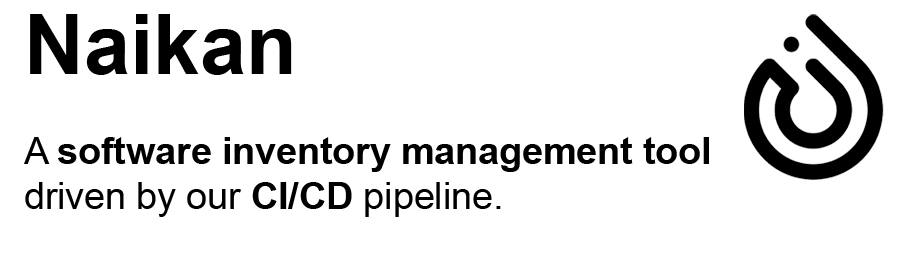
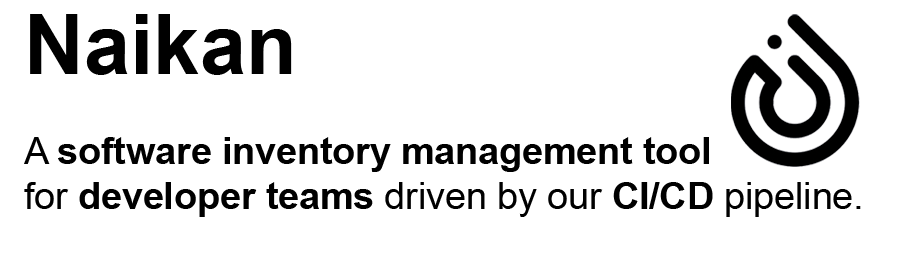
Adjust description about Naikan

Changed region(s): [[0.031, 0.0625, 0.9912, 0.8438]]

diff --git a/docs/index.md b/docs/index.md
@@ -5,7 +5,7 @@
 [Get Started](./getting-started/){ .md-button .md-button--primary }
 [View on GitHub :simple-github:](https://github.com/enofex/naikan){ .md-button }
 
-*Naikan* is a powerful inventory management tool that allows organizations to keep track of critical
+*Naikan* is a powerful inventory management tool for developer teams, that allows organizations to keep track of critical
 information related to their software projects. It enables users to manage their projects' essential
 details, including project name, organization, team, contacts, developers, integrations, licenses,
 deployments, environments, and technologies used. The tool can be integrated into CI/CD pipelines to

diff --git a/docs/about.md b/docs/about.md
@@ -1,4 +1,4 @@
-Welcome to *Naikan*, the ultimate inventory management tool designed to streamline your software
+Welcome to *Naikan*, the ultimate inventory management tool for developer teams designed to streamline your software
 projects. With *Naikan*, organizations can effortlessly stay on top of critical project information,
 ensuring seamless project management and improved efficiency.
 
